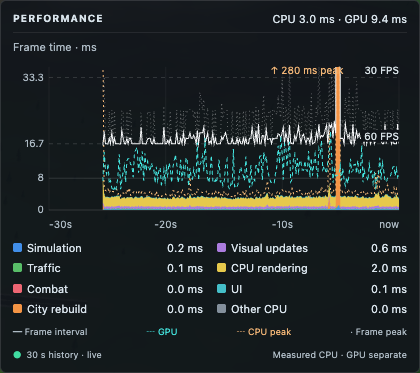
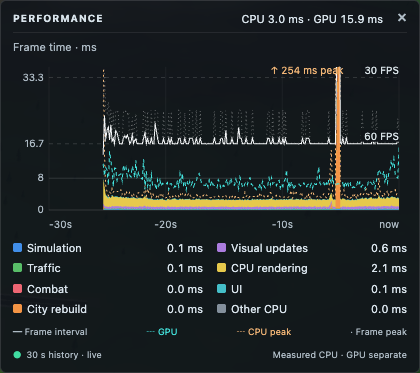
Improve kaiju sprint and attack animations and add performance close button

diff --git a/src/render/kaiju.ts b/src/render/kaiju.ts
@@ -14,8 +14,11 @@ export function createKaijuRenderer(scene: Scene, shadows: ShadowGenerator) {
   const root = new TransformNode("kaiju", scene);
   root.setEnabled(false);
   const parts = new Map<string, TransformNode>();
+  let torso: TransformNode | null = null;
   const casters: Mesh[] = [];
   let disposed = false;
+  let previousAttack = 0;
+  let recoveryAt = -Infinity;
 
   void SceneLoader.ImportMeshAsync("", "/", `kaiju.glb?v=${ASSET_VERSION}`, scene).then((result) => {
     if (disposed) {
@@ -26,6 +29,19 @@ export function createKaijuRenderer(scene: Scene, shadows: ShadowGenerator) {
     const importedRoot = result.meshes[0];
     if (importedRoot) importedRoot.parent = root;
     for (const node of [...result.transformNodes, ...result.meshes]) parts.set(node.name, node);
+    if (importedRoot) {
+      // Lean from the hips, keeping the legs on their existing stride pivots.
+      torso = new TransformNode("kaiju_torso", scene);
+      torso.parent = importedRoot;
+      const hip = parts.get("kaiju_left_leg")?.position;
+      torso.position.set(0, hip?.y ?? 36.6, hip?.z ?? -2.15);
+      for (const name of ["body", "head", "jaw", "left_arm", "right_arm", "tail"]) {
+        const part = parts.get(`kaiju_${name}`);
+        if (!part) continue;
+        part.parent = torso;
+        part.position.subtractInPlace(torso.position);
+      }
+    }
     for (const mesh of result.meshes) {
       if (!(mesh instanceof Mesh) || mesh.getTotalVertices() === 0) continue;
       mesh.isPickable = false;
@@ -37,21 +53,31 @@ export function createKaijuRenderer(scene: Scene, shadows: ShadowGenerator) {
 
   return {
     show(position: Vec3, heading: number, seconds: number, mode: KaijuAssaultState["mode"] = "walking", attackSeconds = 0): void {
+      if (mode !== "attacking" && previousAttack >= KAIJU_ATTACK_SECONDS * 0.84) recoveryAt = seconds;
+      previousAttack = mode === "attacking" ? attackSeconds : 0;
+      const recovery = Math.max(0, 1 - Math.max(0, seconds - recoveryAt) / 0.65) ** 2;
       root.position.set(position.x, position.y, position.z);
-      if (mode === "walking" || mode === "running" || !root.rotationQuaternion) root.rotationQuaternion = Quaternion.FromEulerAngles(0, heading, 0);
+      if (((mode === "walking" || mode === "running") && recovery === 0) || !root.rotationQuaternion) root.rotationQuaternion = Quaternion.FromEulerAngles(0, heading, 0);
       root.metadata = { mode };
       root.setEnabled(true);
       const stride = mode === "running" ? Math.sin(seconds * 5.6) * 0.32 : mode === "walking" ? Math.sin(seconds * 2.8) * 0.16 : 0;
+      // Raise both arms, hold the weight back, then slam at the simulation's five-second impact.
+      // Its next state is already walking/idle: keep the impact pose and recoil for 0.65 s.
+      const phase = Math.min(1, Math.max(0, attackSeconds / KAIJU_ATTACK_SECONDS));
+      const windup = mode === "attacking" ? Math.sin(Math.min(1, phase / 0.55) * Math.PI / 2) : recovery;
+      const slam = mode === "attacking" ? Math.max(0, (phase - 0.84) / 0.16) ** 3 : recovery;
+      const runLean = mode === "running" ? (0.32 + Math.sin(seconds * 11.2) * 0.035) * (1 - recovery) : 0;
+      const lean = runLean - windup * 0.2 + slam * 0.85;
+      if (torso) torso.rotationQuaternion = Quaternion.FromEulerAngles(lean, (windup - slam) * 0.12, 0);
       const breath = Math.sin(seconds * 1.4);
-      const attack = mode === "attacking" ? Math.sin(Math.PI * Math.min(1, Math.max(0, attackSeconds / KAIJU_ATTACK_SECONDS))) : 0;
-      const arms = mode === "attacking" ? -attack * 1.3 : mode === "idle" ? breath * 0.025 : 0;
+      const arms = -windup * 2.6 + slam * 2.25 + (mode === "idle" ? breath * 0.025 * (1 - recovery) : 0);
       swing(parts.get("kaiju_left_leg"), stride);
       swing(parts.get("kaiju_right_leg"), -stride);
       swing(parts.get("kaiju_left_arm"), arms - stride * 0.7);
       swing(parts.get("kaiju_right_arm"), arms + stride * 0.7);
       swing(parts.get("kaiju_tail"), breath * (mode === "walking" ? 0.12 : 0.045), "y");
-      swing(parts.get("kaiju_head"), attack * 0.18 + breath * 0.015);
-      swing(parts.get("kaiju_jaw"), attack * 0.25 + (breath + 1) * 0.02);
+      swing(parts.get("kaiju_head"), -windup * 0.12 + slam * 0.2 + breath * 0.015 - lean * 0.4);
+      swing(parts.get("kaiju_jaw"), windup * 0.45 - slam * 0.3 + (breath + 1) * 0.02);
     },
     impactPoint(seed: number): Vector3 {
       const index = Math.abs(Math.floor(seed));
@@ -62,6 +88,8 @@ export function createKaijuRenderer(scene: Scene, shadows: ShadowGenerator) {
       return Vector3.TransformCoordinates(Vector3.FromArray(positions, vertex), mesh.computeWorldMatrix(true));
     },
     hide(): void {
+      previousAttack = 0;
+      recoveryAt = -Infinity;
       root.setEnabled(false);
     },
     visible(): boolean {

diff --git a/src/render/kaiju.test.ts b/src/render/kaiju.test.ts
@@ -14,7 +14,7 @@ it("follows body impact targets and switches between walking, idle and attack po
   const engine = new NullEngine();
   const scene = new Scene(engine);
   const imported = new Mesh("imported", scene);
-  const body = MeshBuilder.CreateSphere("body", { diameter: 30 }, scene);
+  const body = MeshBuilder.CreateSphere("kaiju_body", { diameter: 30 }, scene);
   const head = MeshBuilder.CreateSphere("head", { diameter: 10 }, scene);
   body.parent = head.parent = imported;
   body.position.y = 60;
@@ -46,7 +46,17 @@ it("follows body impact targets and switches between walking, idle and attack po
     const walkStride = Math.abs(limbs[0]!.rotationQuaternion!.x);
     kaiju.show(position, Math.PI, 0.25, "running");
     expect(Math.abs(limbs[0]!.rotationQuaternion!.x)).toBeGreaterThan(walkStride * 2);
+    const torso = scene.getTransformNodeByName("kaiju_torso")!;
+    expect(torso.rotationQuaternion!.toEulerAngles().x).toBeGreaterThan(0.28);
+    expect(body.parent).toBe(torso);
+    expect(limbs[2]!.parent).toBe(torso);
+    expect(limbs[0]!.parent).toBe(imported); // The lean must not tip the feet with the torso.
+    expect(limbs[6]!.rotationQuaternion!.x).toBeLessThan(0); // Keep the gaze ahead.
+    const runningPose = torso.rotationQuaternion!.asArray();
+    kaiju.show(position, Math.PI, 0.25, "running");
+    expect(torso.rotationQuaternion!.asArray()).toEqual(runningPose);
     kaiju.show(position, Math.PI, 1, "walking");
+    expect(torso.rotationQuaternion!.x).toBe(0);
     expect(limbs[0]!.rotationQuaternion!.x).not.toBe(0);
     kaiju.show(position, 0, 1, "idle");
     const idle = pose();
@@ -64,7 +74,20 @@ it("follows body impact targets and switches between walking, idle and attack po
     kaiju.show(position, 0, 2, "attacking", 2.5);
     expect(pose()).toEqual(attacking); // A paused simulation freezes the attack.
     expect(scene.getTransformNodeByName("kaiju")!.rotationQuaternion!.toEulerAngles().y).toBeCloseTo(Math.PI);
-    kaiju.show(position, 0, 3, "walking");
+    expect(torso.rotationQuaternion!.toEulerAngles().x).toBeLessThan(-0.15); // Whole-body windup.
+    kaiju.show(position, 0, 4.99, "attacking", 4.99);
+    expect(torso.rotationQuaternion!.toEulerAngles().x).toBeGreaterThan(0.55);
+    expect(Math.abs(limbs[2]!.rotationQuaternion!.x)).toBeLessThan(0.3); // Hands slam down.
+    kaiju.show(position, 0, 5, "walking"); // The simulation destroys the building and changes mode here.
+    expect(torso.rotationQuaternion!.toEulerAngles().x).toBeCloseTo(0.65);
+    const impactPose = torso.rotationQuaternion!.asArray();
+    kaiju.show(position, 0, 5, "walking");
+    expect(torso.rotationQuaternion!.asArray()).toEqual(impactPose);
+    kaiju.show(position, 0, 5.3, "walking");
+    expect(torso.rotationQuaternion!.toEulerAngles().x).toBeGreaterThan(0);
+    expect(torso.rotationQuaternion!.toEulerAngles().x).toBeLessThan(0.3);
+    kaiju.show(position, 0, 6, "walking");
+    expect(torso.rotationQuaternion!.x).toBe(0);
     expect(Math.abs(limbs[2]!.rotationQuaternion!.x)).toBeLessThan(0.1);
   } finally {
     kaiju.dispose();

diff --git a/index.html b/index.html
@@ -221,8 +221,10 @@
   #performance-panel[hidden] { display: none; }
   #right-stack:has(#performance-panel:not([hidden])) { max-height: calc(100vh - 72px); overflow-y: auto; }
   #right-stack > * { flex-shrink: 0; }
-  .performance-head { display: flex; justify-content: space-between; flex-wrap: wrap; gap: 4px 8px; border-bottom: 1px solid #ffffff14; padding-bottom: 6px; }
+  .performance-head { display: flex; justify-content: space-between; flex-wrap: wrap; gap: 4px 8px; border-bottom: 1px solid #ffffff14; padding: 0 24px 6px 0; }
   .performance-head b { font-size: 10px; text-transform: uppercase; letter-spacing: .1em; }
+  #performance-close { position: absolute; top: 5px; right: 5px; width: 24px; height: 24px; padding: 0; border: 0; background: transparent; color: #aebbc5; font-size: 18px; line-height: 1; }
+  #performance-close:hover { color: #fff; }
   #performance-summary { font-variant-numeric: tabular-nums; }
   .performance-axis { color: #aebbc5; margin-top: 6px; }
   #performance-chart { display: block; width: 100%; height: 180px; outline-offset: 2px; }
@@ -633,6 +635,7 @@
 <div id="fps-counter" hidden></div>
 <div id="right-stack">
 <section id="performance-panel" aria-label="Live performance" hidden>
+  <button id="performance-close" type="button" aria-label="Close performance graph" title="Close performance graph">×</button>
   <div class="performance-head"><b>Performance</b><span id="performance-summary">CPU — · GPU —</span></div>
   <div class="performance-axis">Frame time · ms</div>
   <canvas id="performance-chart" tabindex="0" role="img" aria-label="CPU frame costs over the last 30 seconds"></canvas>

diff --git a/src/ui/controls.ts b/src/ui/controls.ts
@@ -260,6 +260,11 @@ export function bindControls(handlers: {
     persistSettings();
   });
 
+  on(document.getElementById("performance-close")!, "click", () => {
+    showPerformance.checked = false;
+    showPerformance.dispatchEvent(new Event("change"));
+  });
+
   on(showPerformance, "change", () => {
     handlers.onPerformanceGraph(showPerformance.checked);
     persistSettings();
